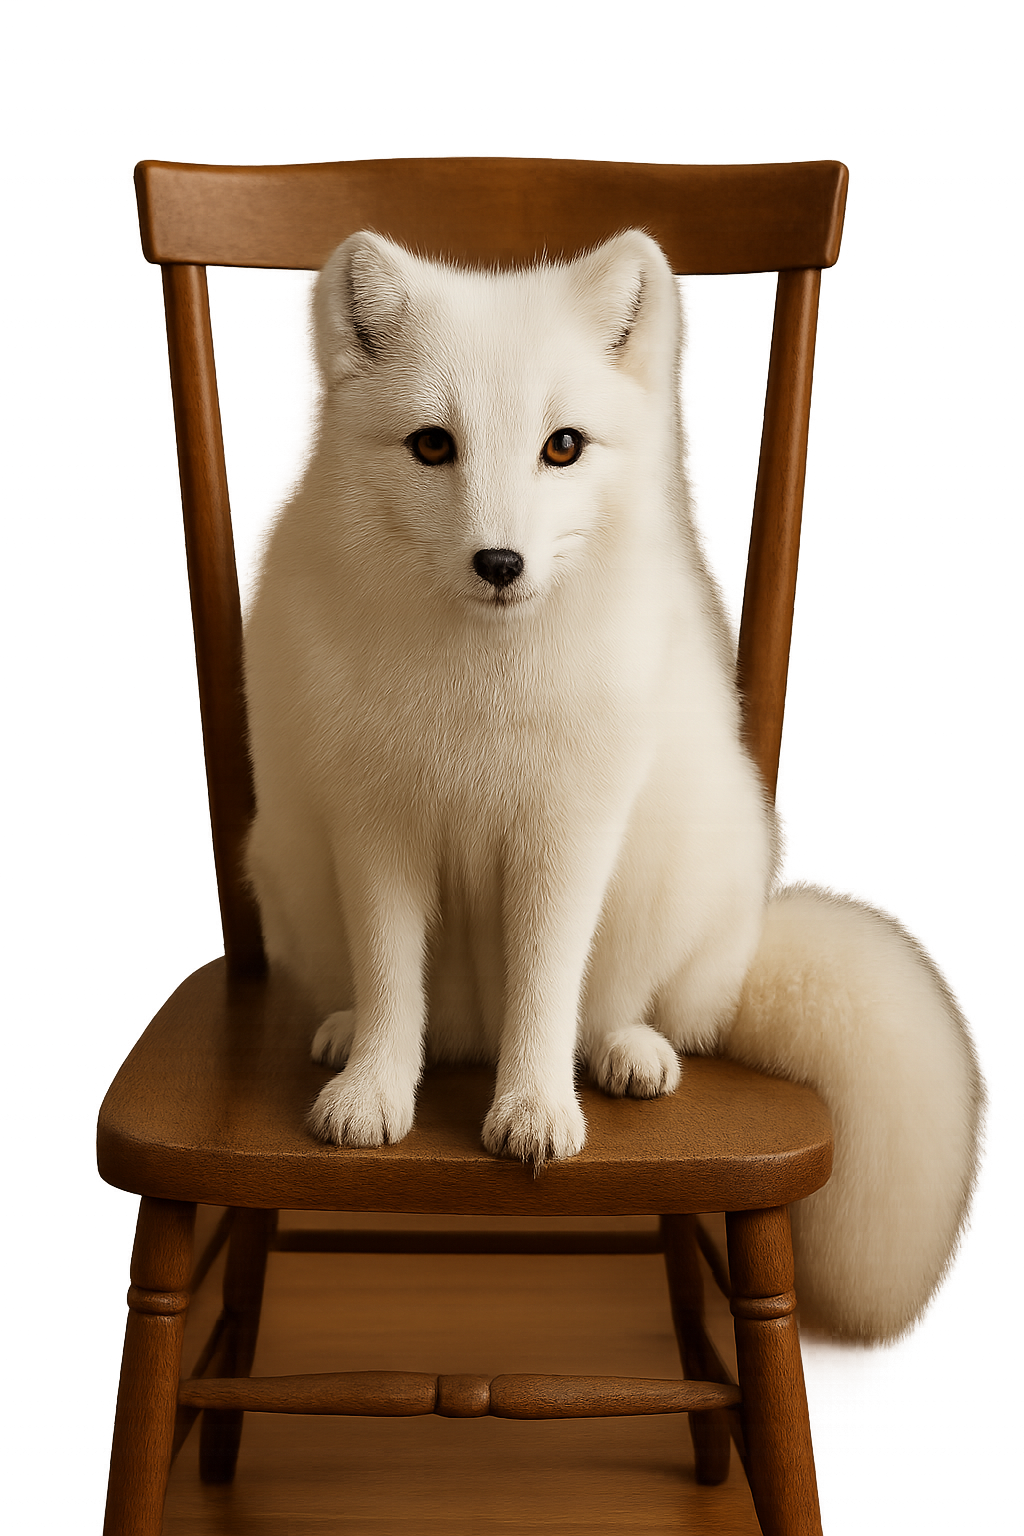
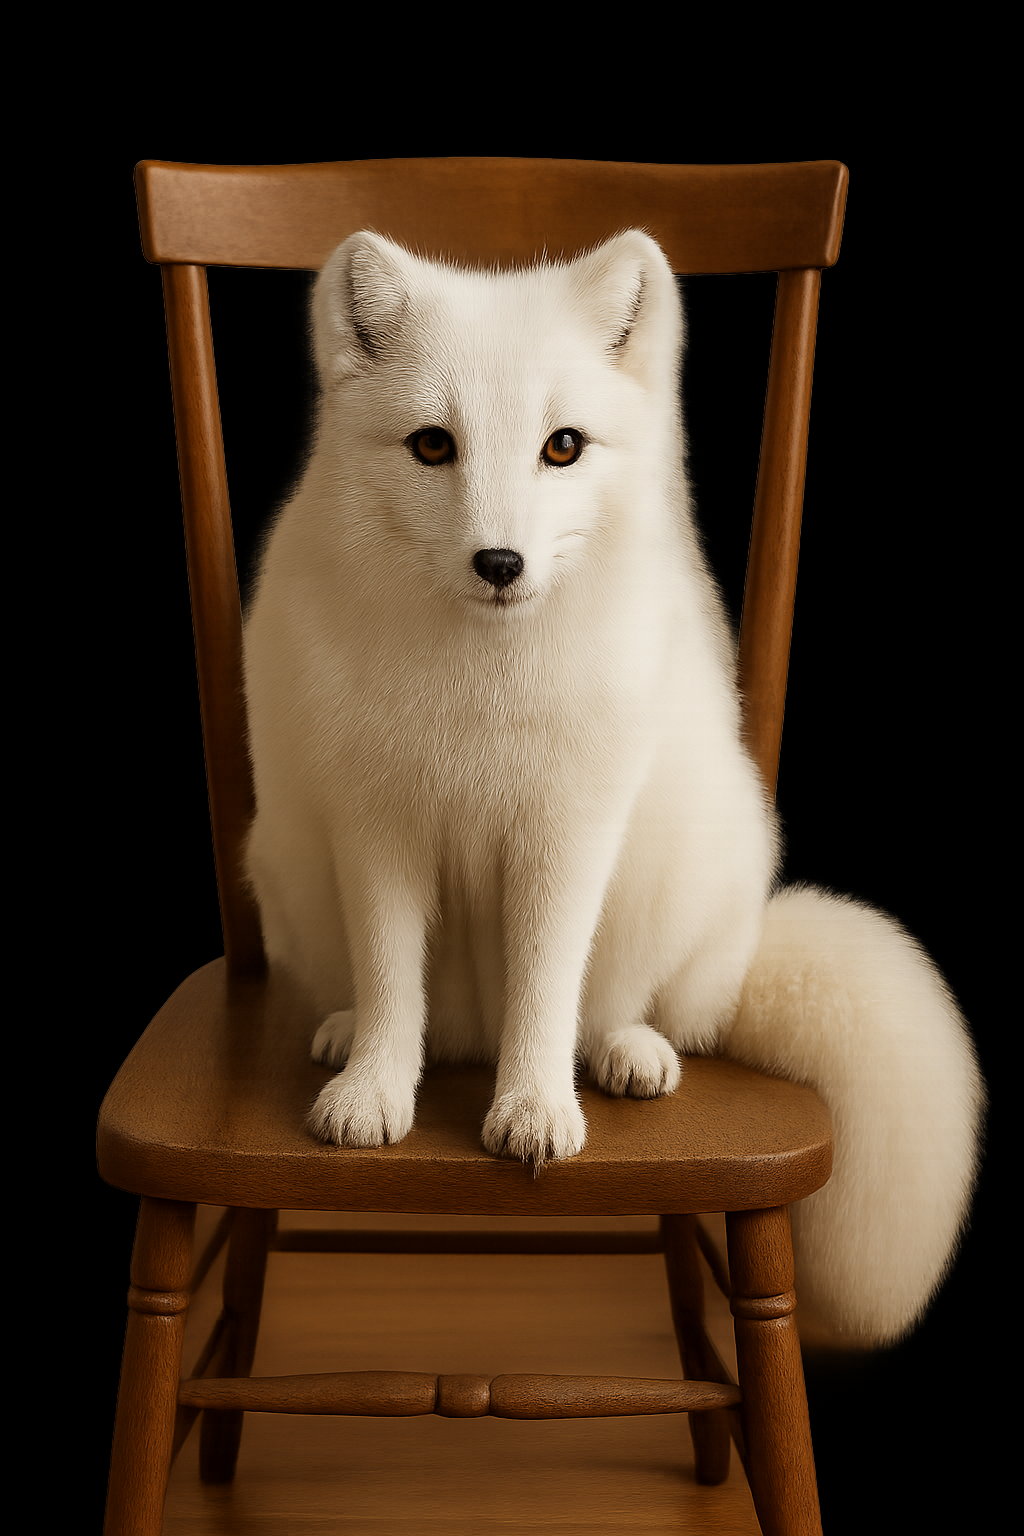
hmm lots of bugs

diff --git a/encode/encode.go b/encode/encode.go
@@ -2,8 +2,11 @@ package encode
 
 import (
 	"encoding/binary"
+	"fmt"
 	"image"
 	"image/png"
+	_ "image/png"
+
 	"log"
 	"os"
 )
@@ -30,6 +33,9 @@ func Encode(targetfile string) {
 	}
 
 	pixels := rgba.Pix
+	for i := 3; i < len(pixels); i += 4 {
+		pixels[i] = 255
+	}
 
 	data, err := os.ReadFile("test.txt")
 	if err != nil {
@@ -38,7 +44,7 @@ func Encode(targetfile string) {
 
 	index := 0
 	length := len(data)
-
+	fmt.Println("Encoded length:", len(data))
 	lengthBytes := make([]byte, 4)
 
 	binary.BigEndian.PutUint32(lengthBytes, uint32(length))
@@ -64,6 +70,10 @@ func Encode(targetfile string) {
 		for j := 7; j >= 0; j-- {
 
 			bit := (payload[i] >> j) & 1
+
+			for index%4 == 3 {
+				index++
+			}
 			pixels[index] = (pixels[index] & 254) | bit
 			index++
 		}
@@ -73,6 +83,22 @@ func Encode(targetfile string) {
 	if err != nil {
 		log.Fatal(err)
 	}
+	index = 0
+	bitsPrinted := 0
+	fmt.Print("Encode bits: ")
+
+	for bitsPrinted < 32 {
+
+		if index%4 == 3 {
+			index++
+			continue
+		}
+
+		fmt.Print(pixels[index] & 1)
+		bitsPrinted++
+		index++
+	}
+	fmt.Println()
 	err = png.Encode(OutFile, rgba)
 	if err != nil {
 		log.Fatal(err)

diff --git a/decode/decode.go b/decode/decode.go
@@ -4,6 +4,7 @@ import (
 	"encoding/binary"
 	"fmt"
 	"image"
+	_ "image/png"
 	"log"
 	"os"
 )
@@ -31,25 +32,52 @@ func Decode(targetfile string) {
 	}
 
 	pixels := rgba.Pix
+
+	index := 0
+	bitsRead := 0
+
 	var byteslice []byte
 	var currbyte byte
 	bitcount := 0
-	length := make([]byte, 4)
-	for i := 0; i < 32; i++ {
-		bit := pixels[i] & 1
+
+	for bitsRead < 32 {
+
+		if index%4 == 3 {
+			index++
+			continue
+		}
+
+		bit := pixels[index] & 1
 
 		currbyte = (currbyte << 1) | bit
 		bitcount++
+		bitsRead++
+		index++
 
 		if bitcount == 8 {
 			byteslice = append(byteslice, currbyte)
-			bitcount = 0
 			currbyte = 0
+			bitcount = 0
+		}
+	}
+	index = 0
+	bitsPrinted := 0
+
+	fmt.Print("Decode bits: ")
+
+	for bitsPrinted < 32 {
+
+		if index%4 == 3 {
+			index++
+			continue
 		}
 
+		fmt.Print(pixels[index] & 1)
+		bitsPrinted++
+		index++
 	}
-
-	lengthBytes := binary.BigEndian.Uint32(length)
+	fmt.Println()
+	lengthBytes := binary.BigEndian.Uint32(byteslice)
 	fmt.Println(lengthBytes)
 
 }

diff --git a/steg.go b/steg.go
@@ -3,10 +3,11 @@ package main
 import (
 	_ "image/png"
 	"steg/decode"
+	"steg/encode"
 )
 
 func main() {
 
-	//encode.Encode("tes.png")
+	encode.Encode("tes.png")
 	decode.Decode("Output.png")
 }
